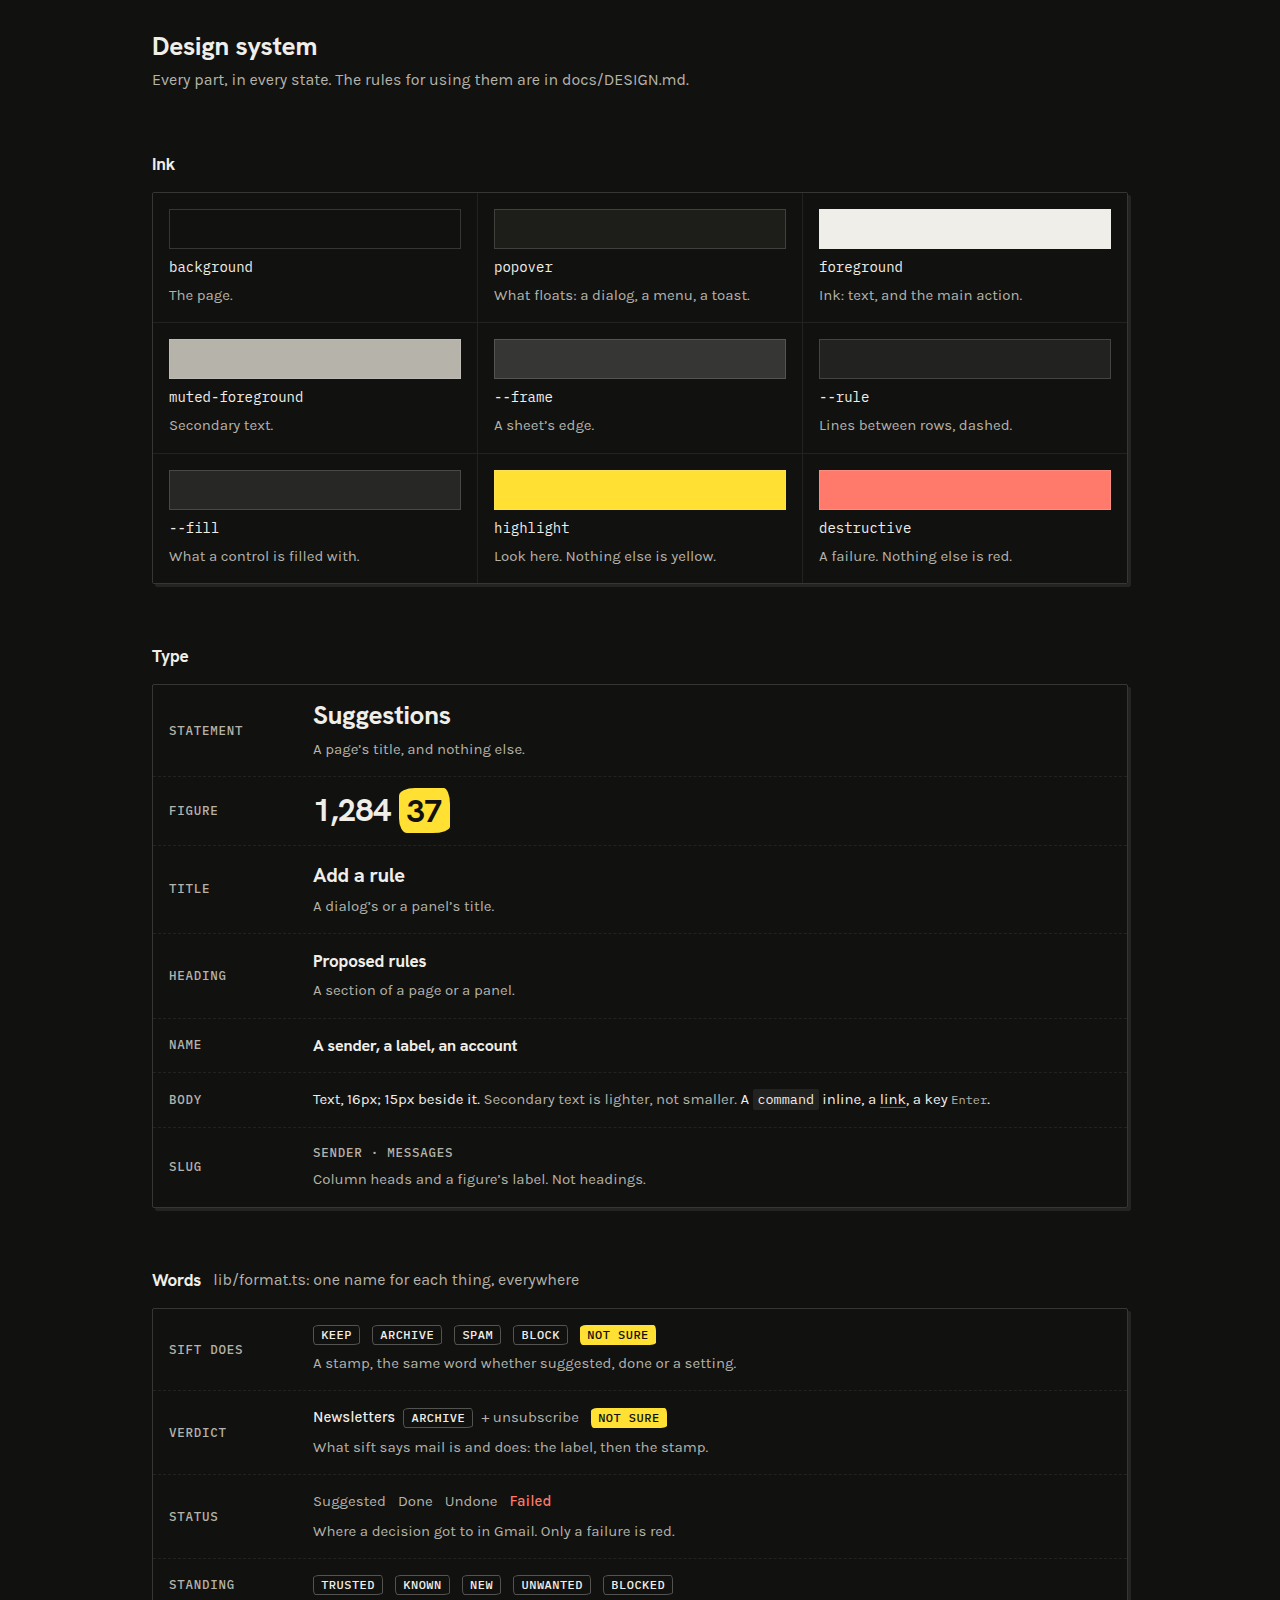
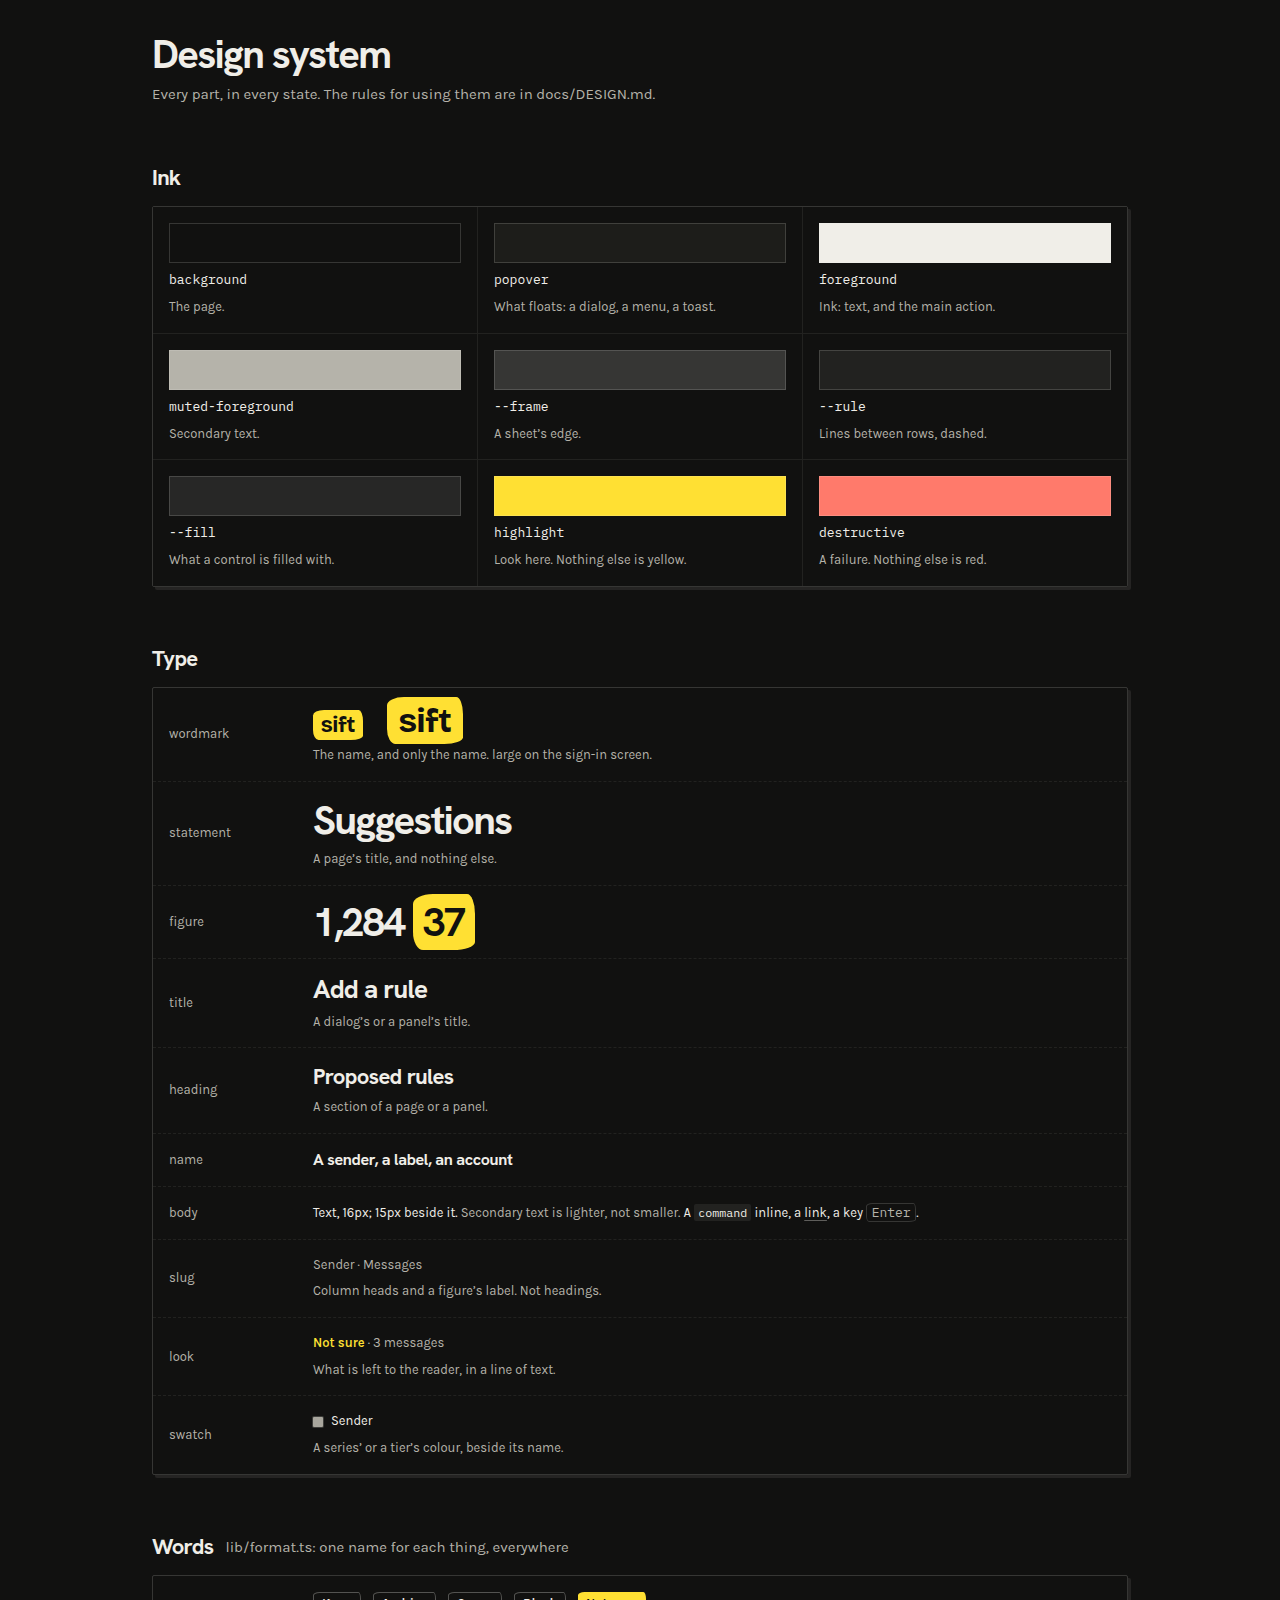
Type set as Peated sets it
Display type is tracked tight and larger (titles 32 to 40px, headings 22px),
text is 15px with 13px for what supports it, and column heads and stamps are
Karla rather than mono capitals. Pressed things are semibold.

diff --git a/web/src/index.css b/web/src/index.css
@@ -12,11 +12,12 @@
   --text-*: initial;
   --text-label: 12px;
   --text-label--line-height: calc(1 / 0.75);
-  --text-sm: 0.9375rem;
-  --text-sm--line-height: calc(1.25 / 0.875);
-  --text-base: 1rem;
-  --text-base--line-height: 1.5;
-  --text-reading: 17px;
+  --text-sm: 13px;
+  --text-sm--line-height: 1.45;
+  --text-base: 15px;
+  --text-base--line-height: 1.6;
+  --text-reading: 16px;
+  --text-reading--line-height: 1.65;
   --font-heading: var(--face-display);
   --font-sans: var(--face-text);
   --font-mono: var(--face-mono);
@@ -122,29 +123,34 @@
   .statement {
     font-family: var(--face-display);
     font-weight: 700;
-    letter-spacing: -0.01em;
   }
+  /* Display type is set tight, tighter the larger it is. */
   .statement {
-    font-size: 26px;
-    line-height: 1.15;
+    font-size: clamp(32px, 4vw, 40px);
+    line-height: 1.1;
+    letter-spacing: -0.04em;
     text-wrap: balance;
   }
   .figure {
-    font-size: 32px;
-    line-height: 1.1;
+    font-size: 40px;
+    line-height: 1;
+    letter-spacing: -0.04em;
   }
   .title {
-    font-size: 20px;
-    line-height: 1.3;
+    font-size: 26px;
+    line-height: 1.15;
+    letter-spacing: -0.03em;
   }
-  /* A section's heading, on a page or in a panel: a step above a name, well below a title. */
+  /* A section's heading, on a page or in a panel: clearly larger than a name, so it never reads as the first row. */
   .heading {
-    font-size: 17px;
-    line-height: 1.3;
+    font-size: 22px;
+    line-height: 1.15;
+    letter-spacing: -0.03em;
   }
   .name {
     font-size: 16px;
-    line-height: 1.35;
+    line-height: 1.25;
+    letter-spacing: -0.02em;
   }
   .wordmark {
     font-family: var(--face-wordmark);
@@ -157,27 +163,22 @@
     font-size: 34px;
   }
 
-  /* Small capitals in the mono face: column heads and a figure's label, nothing else. A heading is a `.heading`. */
+  /* Column heads and a figure's label: the reading face at the supporting size. A heading is a `.heading`. */
   .slug {
-    font-family: var(--font-mono);
-    font-size: 12.5px;
-    font-weight: 500;
-    letter-spacing: 0.06em;
-    text-transform: uppercase;
+    font-size: 13px;
+    font-weight: 400;
+    line-height: 1.4;
   }
 
   /* A rubber stamp: what sift did, or would do, with a message. */
   .stamp {
     display: inline-flex;
     align-items: center;
-    height: 1.25rem;
-    padding-inline: 0.45rem;
+    height: 1.5rem;
+    padding-inline: 0.5rem;
     border-radius: var(--cut);
-    font-family: var(--font-mono);
-    font-size: 12px;
-    font-weight: 500;
-    letter-spacing: 0.04em;
-    text-transform: uppercase;
+    font-size: 13px;
+    font-weight: 600;
     white-space: nowrap;
   }
 }
@@ -243,7 +244,8 @@
   }
   body {
     @apply bg-background text-foreground;
-    font-size: 16px;
+    font-size: 15px;
+    line-height: 1.6;
     -webkit-font-smoothing: antialiased;
   }
 }

diff --git a/web/src/system/field.tsx b/web/src/system/field.tsx
@@ -7,14 +7,14 @@ const FIELD =
 
 /** A line of text typed by the reader. Inside a `Field` it takes the field's label; on its own give it an `aria-label`. */
 export function Input({ className, ...props }: ComponentProps<'input'>) {
-  return <input className={cn('field focus-within-shown h-(--control) min-w-0 rounded-(--cut-control) px-3 text-sm', FIELD, className)} {...props} />;
+  return <input className={cn('field focus-within-shown h-(--control) min-w-0 rounded-(--cut-control) px-3 text-base', FIELD, className)} {...props} />;
 }
 
 /** Longer text. */
 export function TextArea({ className, ...props }: ComponentProps<'textarea'>) {
   return (
     <textarea
-      className={cn('block min-h-48 w-full resize-y rounded-[2px] px-3 py-2.5 text-sm leading-relaxed', FIELD, 'focus-within-shown', className)}
+      className={cn('block min-h-48 w-full resize-y rounded-[2px] px-3 py-2.5 text-base leading-relaxed', FIELD, 'focus-within-shown', className)}
       {...props}
     />
   );
@@ -51,7 +51,7 @@ export function Field({
   const id = useId();
   return (
     <div role="group" aria-labelledby={id} className={cn('flex flex-col gap-1.5', inline && 'sm:grid sm:grid-cols-[6rem_minmax(0,1fr)] sm:gap-x-4')}>
-      <span id={id} className={cn('text-sm font-medium', inline && 'sm:flex sm:h-(--control) sm:items-center sm:text-muted-foreground')}>
+      <span id={id} className={cn('text-sm font-semibold', inline && 'sm:flex sm:h-(--control) sm:items-center sm:text-muted-foreground')}>
         {label}
       </span>
       <div className="flex min-w-0 flex-col items-start gap-1.5">

diff --git a/web/src/system/list-view.tsx b/web/src/system/list-view.tsx
@@ -57,7 +57,7 @@ export function ListView({
                   <input
                     ref={searchBox}
                     type="search"
-                    className="focus-within-shown min-w-0 flex-1 bg-transparent text-sm placeholder:text-muted-foreground"
+                    className="focus-within-shown min-w-0 flex-1 bg-transparent text-base placeholder:text-muted-foreground"
                     aria-label={search.placeholder}
                     aria-keyshortcuts="/"
                     placeholder={search.placeholder}
@@ -77,7 +77,7 @@ export function ListView({
                   aria-label={on > 0 ? `Filters, ${on} on` : 'Filters'}
                   aria-expanded={open}
                   className={cn(
-                    'flex shrink-0 cursor-pointer items-center gap-2 border-l border-(--frame) px-3 text-sm font-medium',
+                    'flex shrink-0 cursor-pointer items-center gap-2 border-l border-(--frame) px-3 text-sm font-semibold',
                     open ? 'bg-(--fill-strong)' : 'text-muted-foreground hover:bg-(--fill) hover:text-foreground',
                   )}
                   onClick={() => setOpen(!open)}

diff --git a/web/src/system/select.tsx b/web/src/system/select.tsx
@@ -20,7 +20,7 @@ export function Select<T extends string>({
     <Base.Root items={items} value={value} disabled={disabled ?? false} onValueChange={(next) => next !== null && onChange(next)}>
       <Base.Trigger
         aria-label={label}
-        className="press inline-flex h-(--control) max-w-full cursor-pointer items-center justify-between gap-1.5 border border-(--frame) pr-2 pl-3 text-sm font-medium whitespace-nowrap select-none hover:border-foreground/30 data-disabled:pointer-events-none data-disabled:opacity-45 data-popup-open:border-foreground/45"
+        className="press inline-flex h-(--control) max-w-full cursor-pointer items-center justify-between gap-1.5 border border-(--frame) pr-2 pl-3 text-sm font-semibold whitespace-nowrap select-none hover:border-foreground/30 data-disabled:pointer-events-none data-disabled:opacity-45 data-popup-open:border-foreground/45"
       >
         <span className="truncate">
           <Base.Value />

diff --git a/web/src/system/nav.tsx b/web/src/system/nav.tsx
@@ -25,7 +25,7 @@ function Sections({ items, current }: { items: readonly NavItem[]; current: stri
             <a
               href={`/${item.to}`}
               aria-current={item.to === current ? 'page' : undefined}
-              className="relative flex items-baseline gap-1.5 py-1 text-sm leading-normal font-medium text-muted-foreground after:absolute after:inset-x-0 after:bottom-0 after:h-[3px] hover:text-foreground aria-[current=page]:text-foreground aria-[current=page]:after:bg-highlight"
+              className="relative flex items-baseline gap-1.5 py-1 text-base leading-normal font-semibold text-muted-foreground after:absolute after:inset-x-0 after:bottom-0 after:h-[3px] hover:text-foreground aria-[current=page]:text-foreground aria-[current=page]:after:bg-highlight"
             >
               {item.label}
               {item.count ? <span className="text-sm tabular-nums opacity-70">{item.count}</span> : null}

diff --git a/web/src/system/button.tsx b/web/src/system/button.tsx
@@ -3,7 +3,7 @@ import { cn } from '@/lib/utils';
 import { useShortcut } from './keys.tsx';
 
 const BASE =
-  'press inline-flex shrink-0 cursor-pointer items-center justify-center gap-1.5 border border-transparent font-medium whitespace-nowrap select-none aria-disabled:pointer-events-none aria-disabled:opacity-45 disabled:pointer-events-none disabled:opacity-45 [&_svg]:size-[1.15em] [&_svg]:shrink-0';
+  'press inline-flex shrink-0 cursor-pointer items-center justify-center gap-1.5 border border-transparent font-semibold whitespace-nowrap select-none aria-disabled:pointer-events-none aria-disabled:opacity-45 disabled:pointer-events-none disabled:opacity-45 [&_svg]:size-[1.15em] [&_svg]:shrink-0';
 
 const VARIANT = {
   /** The one thing on the screen that is waiting on the reader. At most one per screen, and never repeated down a list. */

diff --git a/web/src/system/answer-picker.tsx b/web/src/system/answer-picker.tsx
@@ -46,7 +46,7 @@ export function AnswerPicker({
       <Base.Root items={all.map((p) => ({ value: p.id, label: p.label }))} value={chosen} onValueChange={(next) => next !== null && setChosen(next)}>
         <Base.Trigger
           aria-label={label}
-          className="press inline-flex h-(--control) min-w-0 flex-1 cursor-pointer items-center gap-2 border border-(--frame) pr-2 pl-3 text-sm font-medium whitespace-nowrap select-none hover:border-foreground/30 data-popup-open:border-foreground/45"
+          className="press inline-flex h-(--control) min-w-0 flex-1 cursor-pointer items-center gap-2 border border-(--frame) pr-2 pl-3 text-sm font-semibold whitespace-nowrap select-none hover:border-foreground/30 data-popup-open:border-foreground/45"
         >
           {current ? (
             <>

diff --git a/web/src/system/sheet.tsx b/web/src/system/sheet.tsx
@@ -17,8 +17,8 @@ export function SettingRow({ title, note, children }: { title: string; note?: Re
   return (
     <div className="row flex flex-wrap items-center gap-x-6 gap-y-2.5 px-4 py-3.5">
       <div className="min-w-0 flex-1 basis-64">
-        <p className="font-medium">{title}</p>
-        {note ? <div className="text-muted-foreground">{note}</div> : null}
+        <p className="name">{title}</p>
+        {note ? <div className="mt-0.5 text-muted-foreground">{note}</div> : null}
       </div>
       {children ? <div className="flex flex-wrap items-center gap-2">{children}</div> : null}
     </div>

diff --git a/web/src/system/table.tsx b/web/src/system/table.tsx
@@ -88,7 +88,7 @@ export function Th({ num, phone, className, ...props }: ComponentProps<'th'> & {
   return (
     <th
       scope="col"
-      className={cn('slug h-9 px-3 font-medium whitespace-nowrap text-muted-foreground', EDGES, num && 'text-right', phone && PHONE[phone], className)}
+      className={cn('slug h-9 px-3 whitespace-nowrap text-muted-foreground', EDGES, num && 'text-right', phone && PHONE[phone], className)}
       {...props}
     />
   );

diff --git a/docs/DESIGN.md b/docs/DESIGN.md
@@ -16,7 +16,7 @@ A proof sheet on a dark desk: ink on near-black, one highlighter pen, hard edges
 - **One word for each thing.** What sift does with mail (Keep, Archive, Spam, Block, Not sure), where a decision got to (Suggested, Done, Undone, Failed…), where a sender stands and which tier decided each have exactly one name, kept in `web/src/lib/format.ts` and used in every filter, select and column. In a list what sift says is words, not stamps: "**Archive** as Marketing". A sentence uses the matching phrase (`willBe`). Never write one of these words in a view.
 - **Say what the reader can use.** A list shows what something is, what sift said, why, where it got to and when. Model names, token counts, cost per message, confidence and change ids belong in the message panel's history, not in a row.
 - **Things you press have hand-cut corners** (`--cut-control`); the highlighter stroke has its own (`--cut`). Surfaces are square.
-- **Type is by role.** Karla carries everything read. Hanken Grotesk, bold, is for what is named or counted: a page's title (`.statement`), a dialog's (`.title`), a section's heading (`.heading`), names, figures. IBM Plex Mono is for anything typed or pasted, and in small capitals (`.slug`) for column heads and a figure's label only; a heading is never a slug. The wordmark alone is in Bricolage Grotesque. Sized like a mail reader: text is 16px (`text-base`), what supports it 15px (`text-sm`), an opened message 17px (`text-reading`); only labels and stamps go smaller (`text-label`, 12px), and nothing under 12px. Those four are the only sizes a class can set; titles, figures and the wordmark are role classes. A size typed by eye (`text-[13px]`) fails the design-system test. Secondary text is a lighter ink, not a smaller size. (The same three faces as Peated.)
+- **Type is by role, set as Peated sets it.** Karla carries everything read. Hanken Grotesk, bold, is for what is named or counted: a page's title (`.statement`, 32 to 40px), a dialog's (`.title`, 26px), a section's heading (`.heading`, 22px, clearly larger than a name so it never reads as the first row), names (`.name`), figures. Display type is tracked tight, tighter as it grows (−0.02em for a name to −0.04em for a title); that is most of what makes it look set rather than typed. Column heads and a figure's label (`.slug`) are Karla at the supporting size in lighter ink, not capitals. IBM Plex Mono is for anything typed or pasted, and nothing else. The wordmark alone is in Bricolage Grotesque. Text is 15px (`text-base`), what supports it 13px (`text-sm`), an opened message 16px (`text-reading`), keycaps 12px (`text-label`), and nothing under 12px. Those four are the only sizes a class can set; titles, figures and the wordmark are role classes. A size typed by eye (`text-[13px]`) fails the design-system test. What is pressed is semibold.
 - **One height for controls.** Everything pressed or typed into in a row or a toolbar is `--control` high (32px), so buttons, selects and inputs line up. `lg` is for the one action a screen is about. Somewhere to type or choose (an input, a text area, a select, the search bar) is outlined and empty; something to press is filled (`--fill`), and stronger on hover. So a form reads as fields with one filled action.
 - No app bar, no gradients, no pills, no icons as decoration.
 
